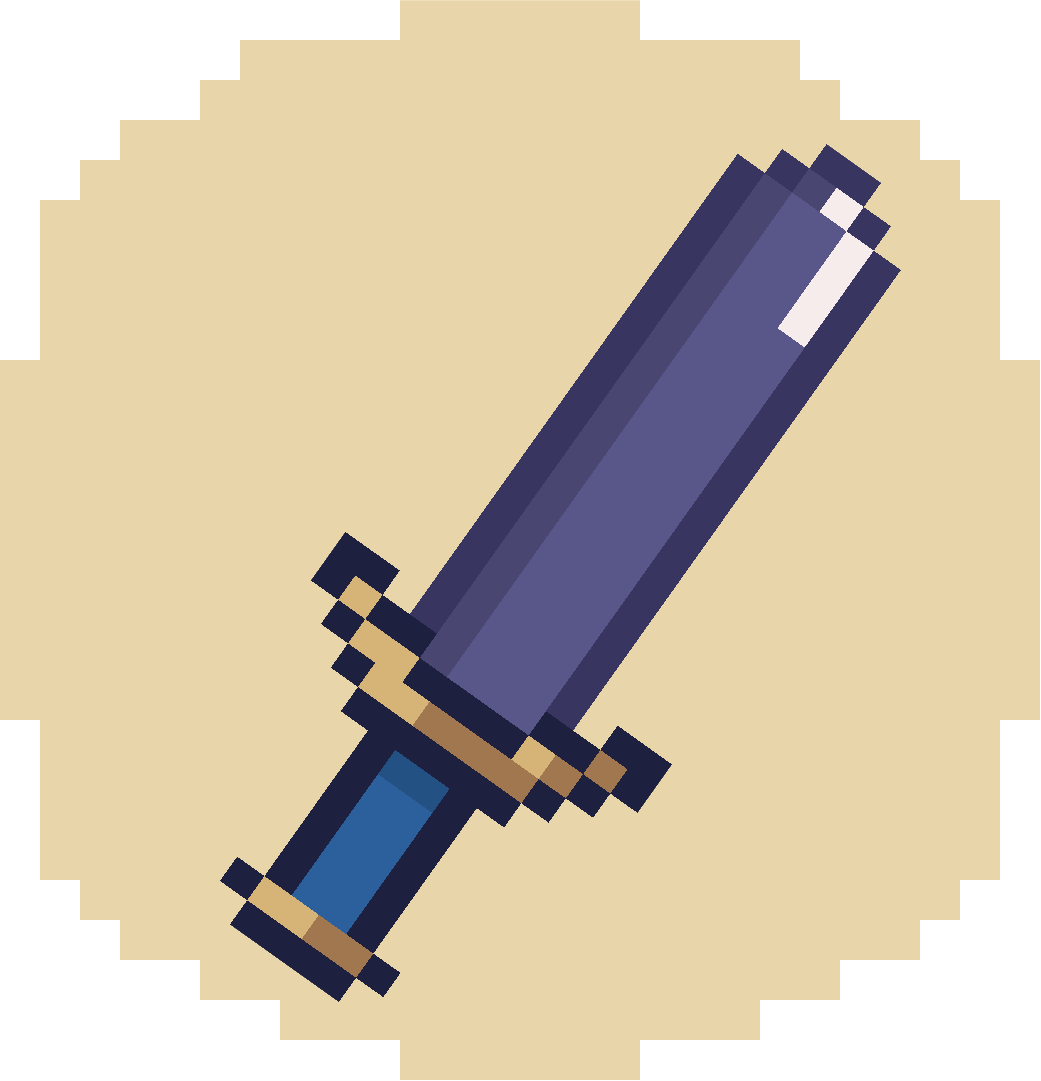
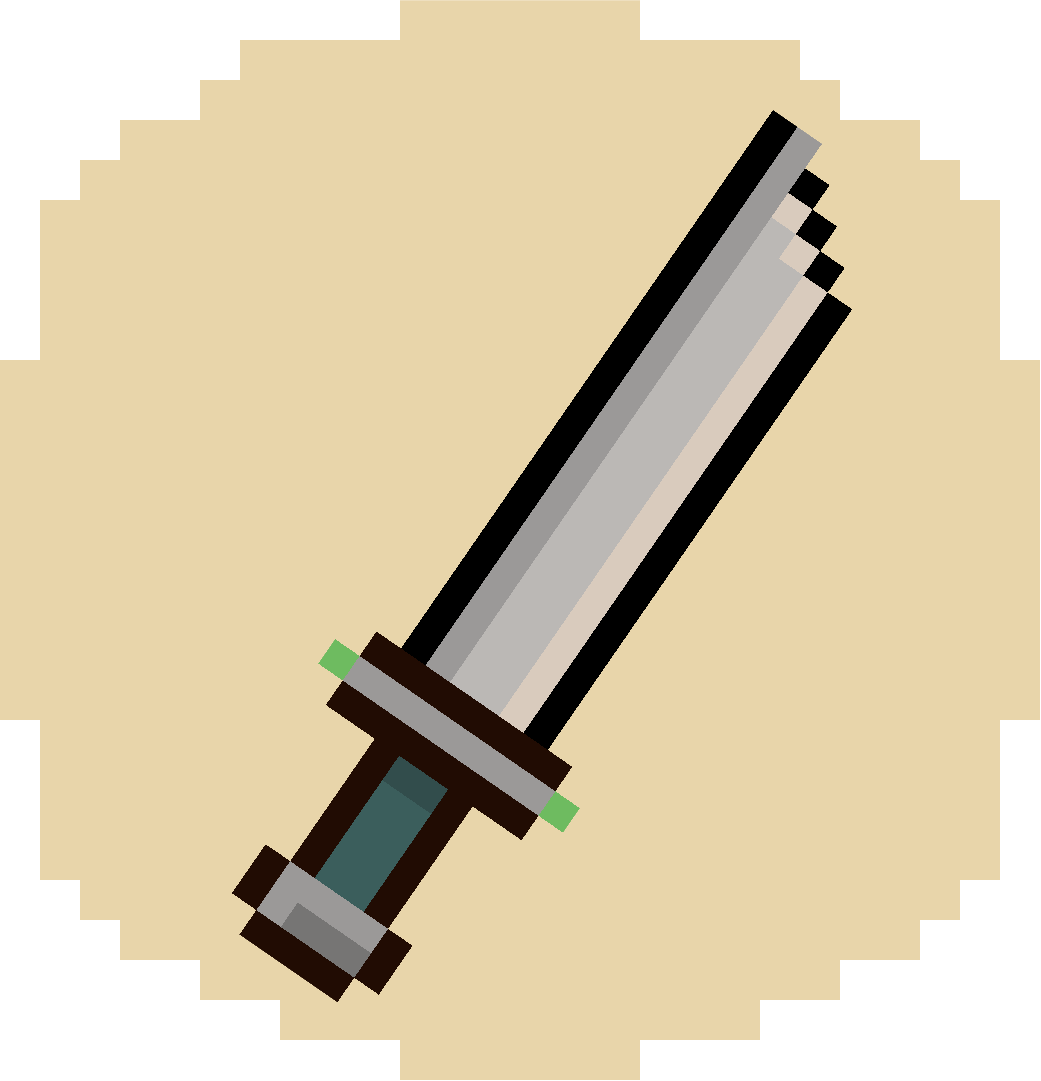
Added Epee 3 when Brings Ecorse to Yeti.

Changed region(s): [[0.2152, 0.0916, 0.8607, 0.9463]]

diff --git a/hud/hud.js b/hud/hud.js
@@ -1,6 +1,7 @@
 let cadreVide;
 let imageEpee1;
 let imageEpee2;
+let imageEpee3;
 let imageFeu1;
 let imageFeu2;
 let imageEau1;
@@ -31,6 +32,7 @@ function preloadHudImages() {
   cadreVide = loadImage('hud/assets/cadreVide.png');
   imageEpee1 = loadImage('hud/assets/imageEpee.png');
   imageEpee2 = loadImage('hud/assets/imageEpee2.png');
+  imageEpee3 = loadImage('hud/assets/imageEpee3.png');
   imageFeu1 = loadImage('hud/assets/imageFeu1.png');
   imageFeu2 = loadImage('hud/assets/imageFeu2.png');
   imageEau1 = loadImage('hud/assets/imageEau1.png');
@@ -172,7 +174,13 @@ function drawHud() {
   image(imageCadreHeart, 30, 5, 350, 125);
 
   image(cadreVide, 30, 850, 600, 150);
-  image(imageEpee2, 44, 861, 100, 100);
+  
+  if (!newSword) {
+    image(imageEpee2, 44, 861, 100, 100);
+  } else {
+    image(imageEpee3, 44, 861, 100, 100);
+  }
+  
   
   if (!alchimisteDialogueFinished) {
     image(imagePotion1, 160, 915, 75, 75);

diff --git a/characters/npc/yeti/yetiNpc.js b/characters/npc/yeti/yetiNpc.js
@@ -83,6 +83,7 @@ let dialoguesYetiEcorse = [
 
 let yetiDialogActiveEcorse = false;
 let currentYetiIndexQueteEcorse = 0; // Renommage de la variable
+let newSword = false; 
 
 function gererDialoguesYetiEcorse() {
   if (yetiDialogActiveEcorse && currentYetiIndexQueteEcorse < dialoguesYetiEcorse.length) {

diff --git a/keysAndMovement.js b/keysAndMovement.js
@@ -218,6 +218,7 @@ function keyPressed() {
         yetiDialogActiveEcorse = false;
         // Supprimer les dialogues de l'écorse une fois que le dernier dialogue a été affiché
         dialoguesYetiEcorse.splice(0, dialoguesYetiEcorse.length);
+        newSword = true;
     }
   }
 
